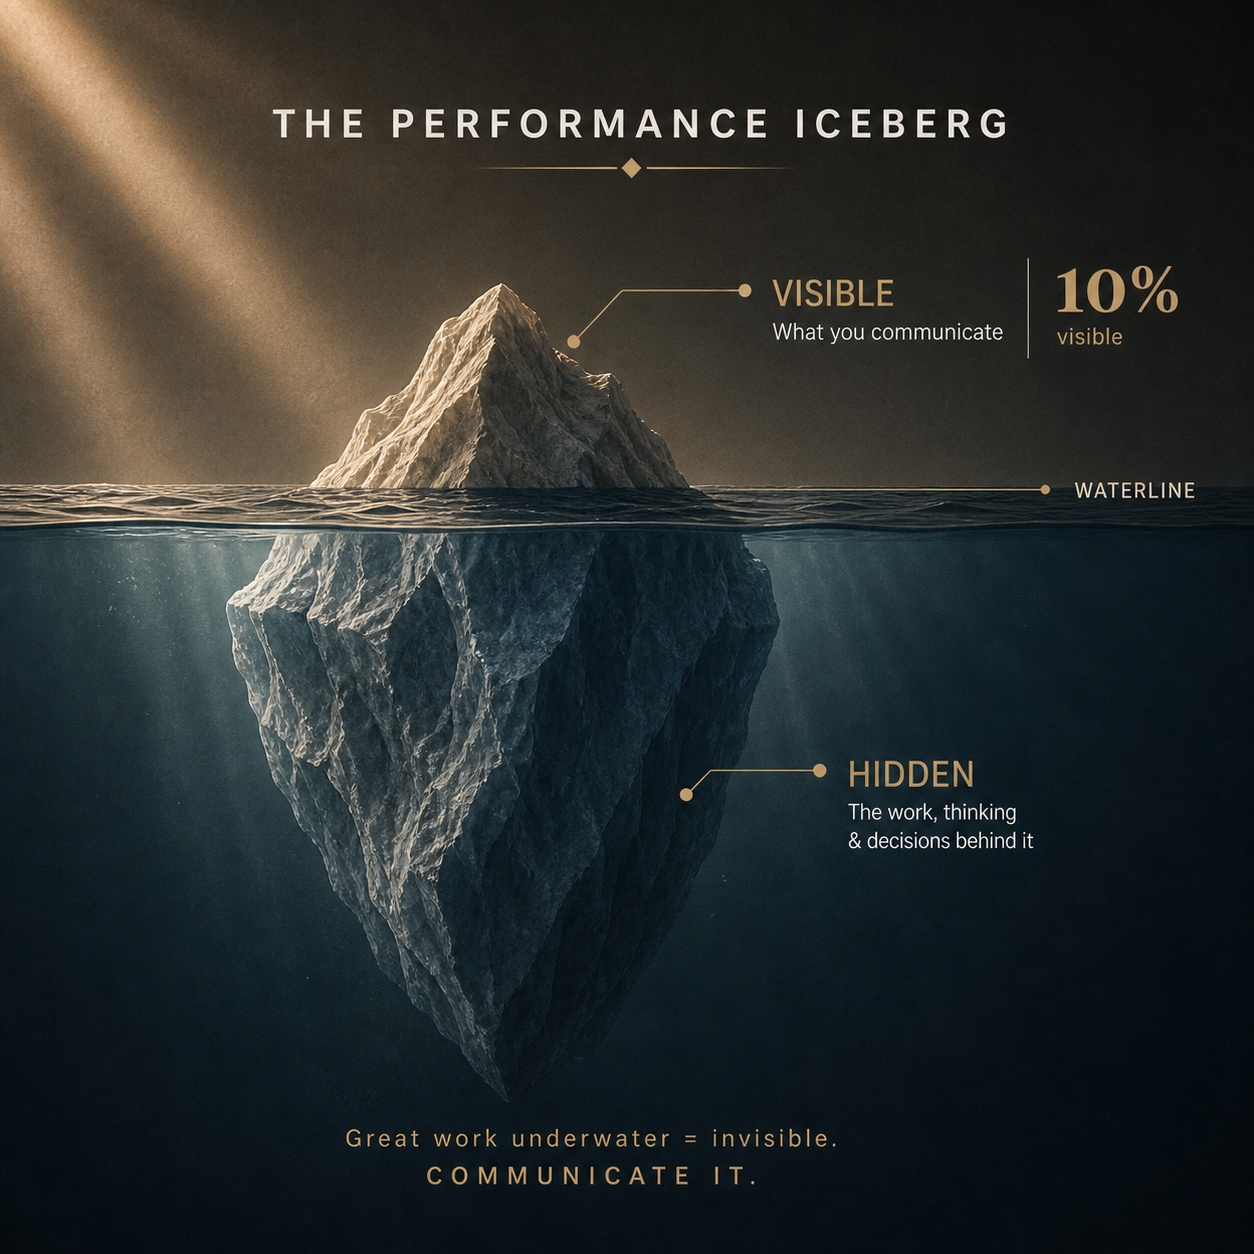
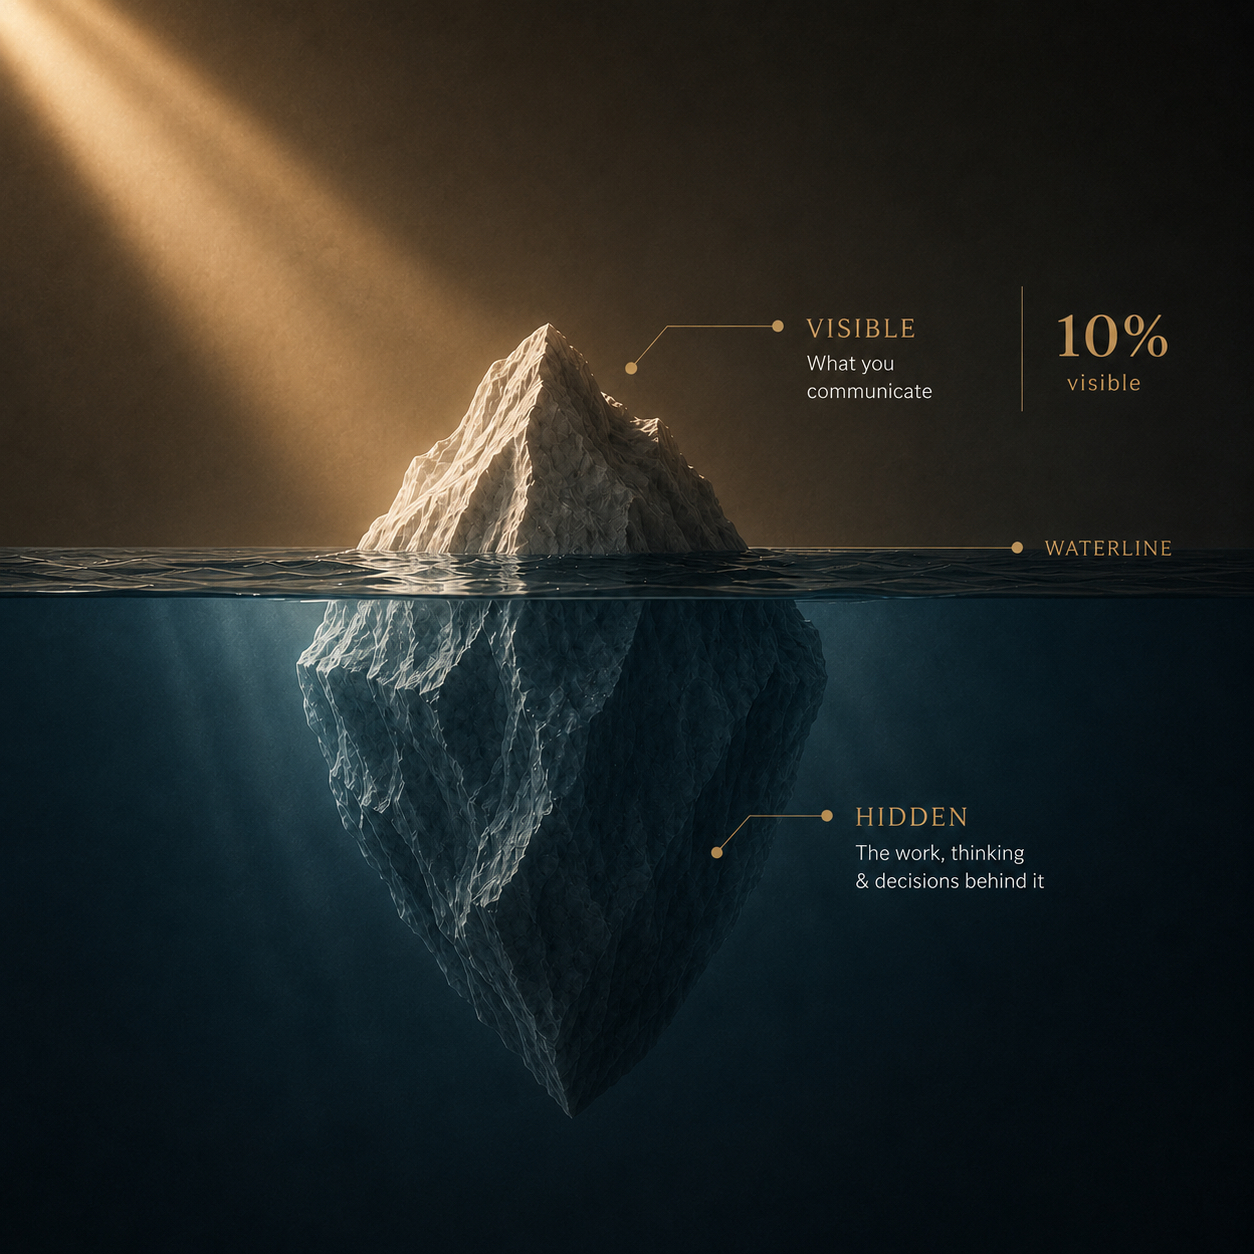
Day 10 Theory: add Performance Iceberg image

diff --git a/src/screens/SessionView.jsx b/src/screens/SessionView.jsx
@@ -467,7 +467,10 @@ setAmbitionSaved(true); } catch {}
         <div key={idx} className="au-step-enter" style={{padding:"44px 52px",overflowY:"auto"}}>
           <div style={{fontSize:11,fontWeight:700,color:T.gold,textTransform:"uppercase",letterSpacing:"2px",marginBottom:12,fontFamily:T.sans}}>The Science</div>
           <h2 style={{fontFamily:T.serif,fontSize:40,fontWeight:600,color:T2.text,lineHeight:1.1,marginBottom:8}}>The Performance Iceberg</h2>
-          <p style={{fontFamily:T.sans,fontSize:16,color:"#A8998A",lineHeight:1.6,fontWeight:400,marginBottom:28}}>Most professionals assume their effort speaks for itself. It doesn't.</p>
+          <p style={{fontFamily:T.sans,fontSize:16,color:"#A8998A",lineHeight:1.6,fontWeight:400,marginBottom:24}}>Most professionals assume their effort speaks for itself. It doesn't.</p>
+          <div style={{marginBottom:28,borderRadius:8,overflow:"hidden"}}>
+            <img src="/performance-iceberg.jpg" alt="The Performance Iceberg — 10% visible, 90% hidden" style={{width:"100%",display:"block",maxHeight:480,objectFit:"cover",objectPosition:"center"}}/>
+          </div>
           <div style={{display:"grid",gridTemplateColumns:"1fr 1fr",gap:16,marginBottom:24}}>
             <div style={{padding:"22px 24px",background:T2.surface,borderRadius:4,border:"0.5px solid "+T2.border}}>
               <div style={{fontSize:10,fontWeight:700,color:T.goldDark,textTransform:"uppercase",letterSpacing:"1.5px",marginBottom:12,fontFamily:T.sans}}>Above the waterline ↑</div>

diff --git a/src/screens/SessionViewMobile.jsx b/src/screens/SessionViewMobile.jsx
@@ -581,6 +581,9 @@ T.goldDark : T2.text4,
         <>
           <div style={{fontSize:10,fontWeight:700,color:T.gold,textTransform:"uppercase",letterSpacing:"1.5px",marginBottom:10,fontFamily:T.sans}}>The Performance Iceberg</div>
           <h2 style={{fontFamily:T.serif,fontSize:22,fontWeight:600,color:T2.text,lineHeight:1.2,marginBottom:12}}>Most professionals assume their effort speaks for itself. It doesn't.</h2>
+          <div style={{marginBottom:16,borderRadius:8,overflow:"hidden"}}>
+            <img src="/performance-iceberg.jpg" alt="The Performance Iceberg" style={{width:"100%",display:"block",objectFit:"cover"}}/>
+          </div>
           <div style={{display:"flex",flexDirection:"column",gap:8,marginBottom:16}}>
             <div style={{padding:"14px 16px",background:T2.surface,borderRadius:6,border:"0.5px solid "+T2.border}}>
               <div style={{fontSize:9,fontWeight:700,color:T.goldDark,textTransform:"uppercase",letterSpacing:"1px",marginBottom:8,fontFamily:T.sans}}>Above the waterline — what they see ↑</div>
